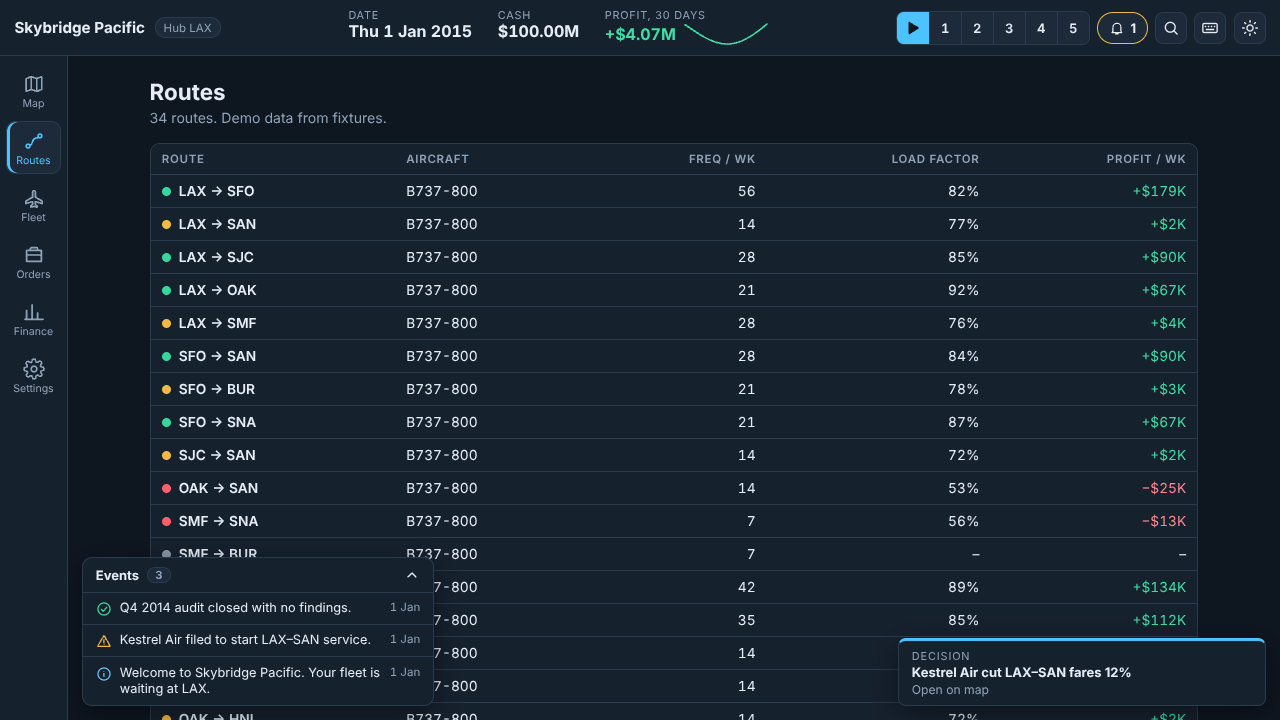
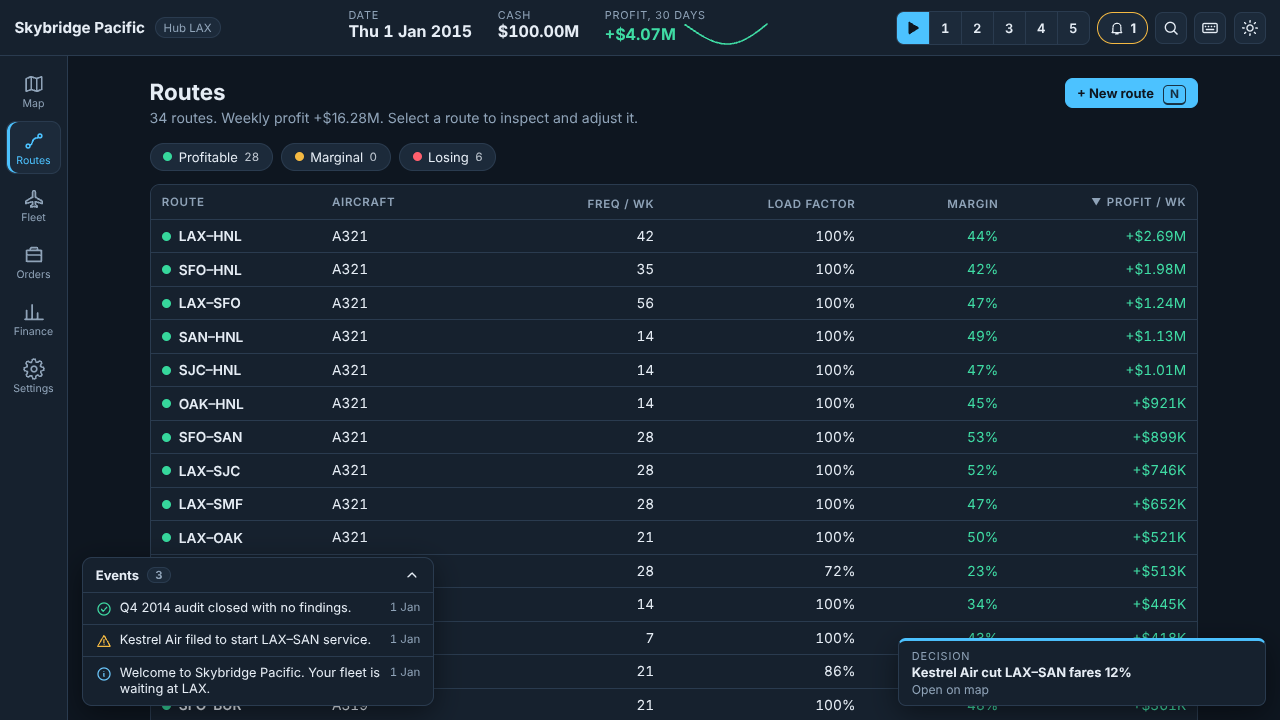
app: route UI polish, plausible seed network, inspector and creation screenshots
Claude-Session: https://claude.ai/code/session_015x49XiTD16ohK7Q8Any9F9

diff --git a/packages/app/src/routes/routes.css b/packages/app/src/routes/routes.css
@@ -69,7 +69,7 @@
 .af-list li.sel { background: var(--accent); color: var(--bg); }
 .af-list li.sel em { color: inherit; opacity: .85; }
 .rp-pair { position: relative; }
-.rp-swap { position: absolute; right: 0; top: 5.2rem; z-index: 2; width: 1.9rem; height: 1.9rem; font-size: .95rem; background: var(--panel); }
+.rp-swap { position: absolute; right: 0; top: 4.3rem; z-index: 2; width: 1.9rem; height: 1.9rem; font-size: .95rem; background: var(--panel); }
 .rp-freq { display: grid; grid-template-columns: 2rem 4.2rem 2rem 1fr; gap: .4rem; align-items: center; }
 .rp-freq .icon-btn { width: 2rem; height: 2rem; }
 .rp-fares { border: 0; padding: 0; margin: .7rem 0 0; }
@@ -125,7 +125,7 @@ tr.selected { background: var(--panel-2); box-shadow: inset 3px 0 0 var(--accent
 .side-actions { display: flex; gap: .5rem; flex-wrap: wrap; }
 
 /* Toasts */
-.toasts { position: fixed; z-index: 120; left: 50%; bottom: 1.2rem; transform: translateX(-50%); display: flex; flex-direction: column; gap: .5rem; width: min(30rem, calc(100% - 2rem)); pointer-events: none; }
+.toasts { position: fixed; z-index: 120; left: 50%; top: 4.2rem; transform: translateX(-50%); display: flex; flex-direction: column; gap: .5rem; width: min(30rem, calc(100% - 2rem)); pointer-events: none; }
 .toast { pointer-events: auto; display: flex; align-items: flex-start; gap: .6rem; padding: .6rem .7rem .6rem .8rem; background: var(--panel); border: 1px solid var(--line); border-left: 4px solid var(--sev-info); border-radius: 10px; box-shadow: var(--shadow); font-size: .86rem; line-height: 1.35; }
 .toast-good { border-left-color: var(--sev-good); } .toast-good .toast-ico { color: var(--sev-good); }
 .toast-alert { border-left-color: var(--sev-alert); } .toast-alert .toast-ico { color: var(--sev-alert); }

diff --git a/packages/app/src/routes/helpers.ts b/packages/app/src/routes/helpers.ts
@@ -135,9 +135,9 @@ export function eligibleTypes(a: Airport, b: Airport, year: number, types: reado
 }
 
 /** The available eligible type with the best weekly profit at `freq`. Falls back to the first eligible. */
-export function bestType(a: Airport, b: Airport, day: Day, freq = 7, world: World = dataWorld): AircraftType | null {
+export function bestType(a: Airport, b: Airport, day: Day, freq = 7, world: World = dataWorld, accept: (t: AircraftType) => boolean = () => true): AircraftType | null {
   const year = dayToDate(day).year;
-  const opts = eligibleTypes(a, b, year, [...world.types.values()]);
+  const opts = eligibleTypes(a, b, year, [...world.types.values()].filter(accept));
   const usable = opts.filter((o) => o.available);
   const pool = usable.length > 0 ? usable : opts;
   let best: { t: AircraftType; p: number } | null = null;

diff --git a/packages/app/src/routes/seed.ts b/packages/app/src/routes/seed.ts
@@ -9,9 +9,10 @@ export function seedRoutes(): Route[] {
   fixtureRoutes.forEach((fr, i) => {
     const a = dataWorld.airports.get(fr.origin), b = dataWorld.airports.get(fr.destination);
     if (!a || !b) return;
-    const t = bestType(a, b, 0, fr.weeklyFrequency);
-    if (!t) return;
     const km = distanceKm(a, b);
+    // Demo network: narrowbodies unless the pair needs a widebody (keeps the starting network plausible).
+    const t = bestType(a, b, 0, fr.weeklyFrequency, dataWorld, (x) => !x.widebody) ?? bestType(a, b, 0, fr.weeklyFrequency);
+    if (!t) return;
     const m = marketFares(km);
     const k = 0.92 + ((i * 7) % 9) / 40; // deterministic spread around the market fare
     const fares: Route["fares"] = { Y: Math.round(m.Y * k) };

diff --git a/packages/app/src/routes/RoutePanel.tsx b/packages/app/src/routes/RoutePanel.tsx
@@ -13,7 +13,8 @@ export function useInspectedRoute() {
 }
 export function usePanelOpen(): boolean {
   const creating = useCreation((s) => s.open);
-  return creating || !!useInspectedRoute();
+  const route = useInspectedRoute();
+  return creating || !!route;
 }
 
 /** Right-side panel hosting the route inspector or the route-creation sandbox. */
